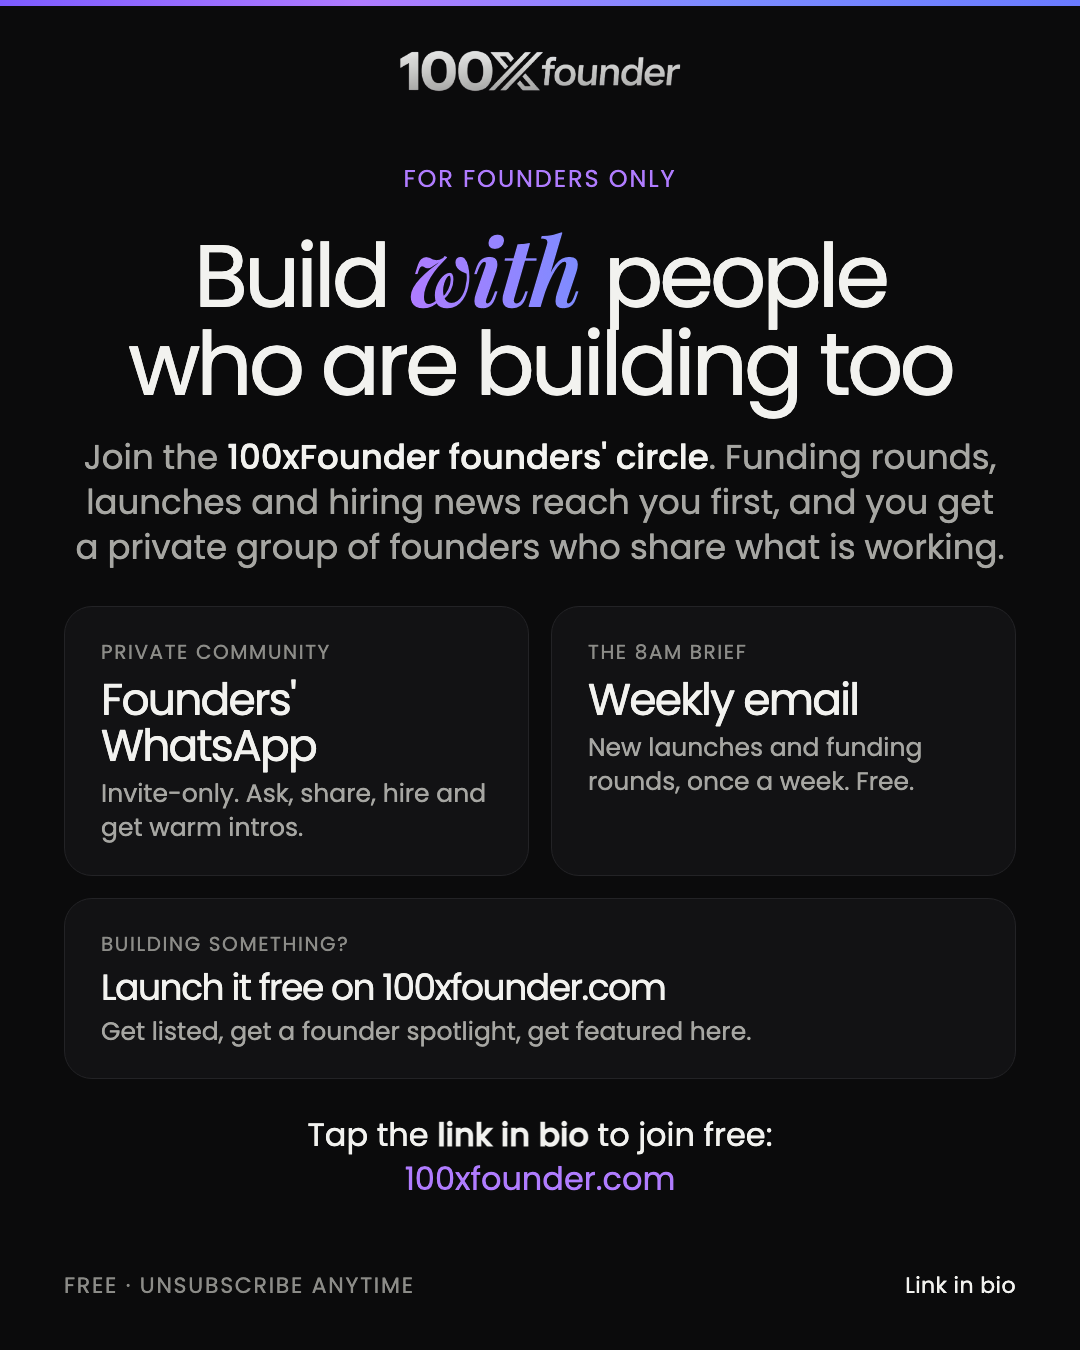
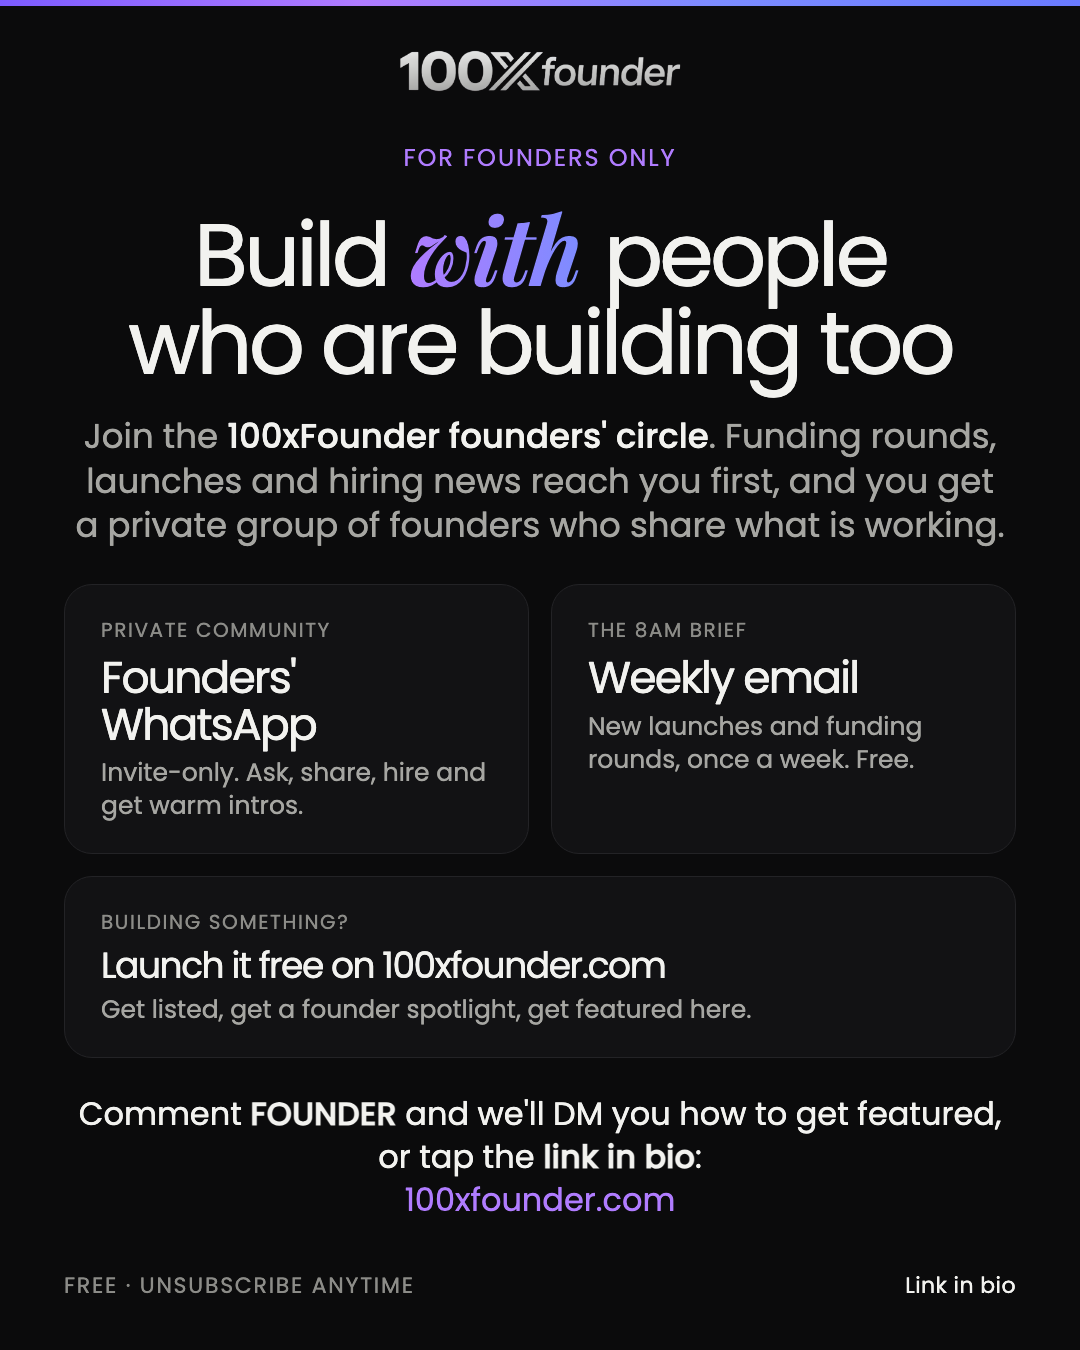
Instagram: comment-to-DM (keyword private replies) and 'Comment FOUNDER' end slide

diff --git a/wordpress/100xfounder/includes/instagram-dm.php b/wordpress/100xfounder/includes/instagram-dm.php
@@ -24,6 +24,8 @@ function xf_ig_dm_opts() {
     }
     return $o + [
         'enabled' => 0,
+        'comments_on' => 0,
+        'keywords' => "FOUNDER | Thanks for commenting! 🙌 Here's how to get your startup featured on 100xFounder: launch it free at https://100xfounder.com/launch/ and reply here with your startup's name. Join the founders' circle (private WhatsApp + weekly 8am brief): https://100xfounder.com/join/\nJOBS | Here are the latest startup and big-tech jobs in India, all from official careers pages: https://100xfounder.com/jobs/\nBRIEF | Get the 8am brief, new launches and funding rounds once a week, free: https://100xfounder.com/join/",
         'secret' => '',
         'text' => "Thanks for messaging 100xFounder! 👋\n\nWant your startup featured? Launch it free: https://100xfounder.com/launch/\nJoin the founders' circle (private WhatsApp + weekly 8am brief): https://100xfounder.com/join/\n\nA person from our team will read your message and reply here.",
     ];
@@ -54,6 +56,45 @@ function xf_ig_dm_to_reply(array $events, array $last, $self_id, $now) {
         $out[$from] = true;
     }
     return array_keys($out);
+}
+
+/** "KEYWORD | message" lines -> ['KEYWORD' => message]. Pure; self-checked. */
+function xf_ig_dm_keywords($text) {
+    $out = [];
+    foreach (preg_split('/\R/', (string) $text) as $line) {
+        $parts = array_map('trim', explode('|', $line, 2));
+        if (count($parts) === 2 && $parts[0] !== '' && $parts[1] !== '') {
+            $out[strtoupper(preg_replace('/[^A-Za-z0-9]/', '', $parts[0]))] = $parts[1];
+        }
+    }
+    return array_filter($out, function ($v, $k) { return $k !== ''; }, ARRAY_FILTER_USE_BOTH);
+}
+
+/**
+ * Comments that get a private reply: [comment_id => keyword] for comments whose text contains a keyword as a word,
+ * not written by us, and from someone who hasn't had that keyword's reply yet ($done: "user:KEYWORD" => time). Pure; self-checked.
+ */
+function xf_ig_dm_comment_replies(array $changes, array $keywords, array $done, $self_id) {
+    $out = [];
+    foreach ($changes as $c) {
+        if (($c['field'] ?? '') !== 'comments') {
+            continue;
+        }
+        $v = (array) ($c['value'] ?? []);
+        $cid = (string) ($v['id'] ?? '');
+        $from = (string) ($v['from']['id'] ?? '');
+        if ($cid === '' || $from === '' || $from === (string) $self_id) {
+            continue;
+        }
+        $words = preg_split('/[^A-Za-z0-9]+/', strtoupper((string) ($v['text'] ?? '')), -1, PREG_SPLIT_NO_EMPTY);
+        foreach (array_keys($keywords) as $k) {
+            if (in_array($k, $words, true) && !isset($done[$from . ':' . $k])) {
+                $out[$cid] = ['keyword' => $k, 'from' => $from];
+                break;
+            }
+        }
+    }
+    return $out;
 }
 
 add_action('rest_api_init', function () {
@@ -118,6 +159,29 @@ function xf_ig_dm_receive(WP_REST_Request $r) {
             unset($row);
         }
     }
+    // Comment-to-DM: someone commented a keyword on our post; Instagram's private-reply API lets us DM them once.
+    $changes = [];
+    foreach ((array) ($body['entry'] ?? []) as $entry) {
+        foreach ((array) ($entry['changes'] ?? []) as $ch) {
+            $changes[] = $ch;
+        }
+    }
+    if ($changes && !empty($o['comments_on']) && $self !== '' && function_exists('xf_ig_api')) {
+        $kw = xf_ig_dm_keywords($o['keywords']);
+        $done = (array) get_option('xf_ig_dm_kw_done', []);
+        foreach (xf_ig_dm_comment_replies($changes, $kw, $done, $self) as $cid => $hit) {
+            $res = xf_ig_api('POST', $self . '/messages', [
+                'recipient' => wp_json_encode(['comment_id' => (string) $cid]),
+                'message' => wp_json_encode(['text' => $kw[$hit['keyword']]]),
+            ]);
+            $ok = !is_wp_error($res);
+            if ($ok) {
+                $done[$hit['from'] . ':' . $hit['keyword']] = time();
+            }
+            $log[] = ['at' => time(), 'from' => $hit['from'], 'text' => 'Commented ' . $hit['keyword'], 'replied' => $ok ? 'private reply sent' : 'private reply failed: ' . $res->get_error_message()];
+        }
+        update_option('xf_ig_dm_kw_done', array_slice($done, -5000, null, true), false);
+    }
     update_option('xf_ig_dm_log', array_slice($log, -100), false);
     update_option('xf_ig_dm_last', $last, false);
     return ['ok' => true];
@@ -131,14 +195,16 @@ function xf_ig_dm_tab() {
     ?>
     <div class="card" style="max-width:none">
         <h2>Auto-reply to DMs</h2>
-        <p>When someone messages @<?php echo esc_html(xf_ig_token()['username'] ?? '100xfounder'); ?>, this sends one reply (at most once a week per person) with the launch and join links. Instagram only allows replies to people who wrote first, so nothing here sends cold DMs.</p>
+        <p>Instagram allows two automatic DMs: a reply to someone who messages us, and a private reply to someone who comments a keyword on our post. Both are below. When someone messages @<?php echo esc_html(xf_ig_token()['username'] ?? '100xfounder'); ?>, this sends one reply (at most once a week per person) with the launch and join links. Instagram only allows replies to people who wrote first, so nothing here sends cold DMs.</p>
         <form method="post" action="<?php echo esc_url(admin_url('admin-post.php')); ?>">
             <input type="hidden" name="action" value="xf_ig_dm_save"><?php wp_nonce_field('xf_ig_dm_save'); ?>
             <table class="form-table">
                 <tr><th scope="row">Auto-reply</th><td><label><input type="checkbox" name="enabled" value="1" <?php checked(!empty($o['enabled'])); ?>> Reply automatically</label></td></tr>
                 <tr><th scope="row"><label for="xf_dm_text">Reply text</label></th><td><textarea id="xf_dm_text" name="text" rows="7" class="large-text" maxlength="1000"><?php echo esc_textarea($o['text']); ?></textarea></td></tr>
+                <tr><th scope="row">Comment-to-DM</th><td><label><input type="checkbox" name="comments_on" value="1" <?php checked(!empty($o['comments_on'])); ?>> When someone comments a keyword on our posts, DM them the matching message (once per person per keyword)</label></td></tr>
+                <tr><th scope="row"><label for="xf_dm_kw">Keywords</label></th><td><textarea id="xf_dm_kw" name="keywords" rows="6" class="large-text code"><?php echo esc_textarea($o['keywords']); ?></textarea><p class="description">One per line: <code>KEYWORD | message</code>. Put "Comment FOUNDER to get featured" in your captions and end slide.</p></td></tr>
                 <tr><th scope="row"><label for="xf_dm_secret">Meta app secret</label></th><td><input id="xf_dm_secret" type="password" name="secret" class="regular-text" autocomplete="off" placeholder="<?php echo $o['secret'] ? esc_attr__('Saved. Paste a new one to replace it.') : ''; ?>"><p class="description">Meta app → App settings → Basic → App secret. Used only to check that webhook calls come from Meta.</p></td></tr>
-                <tr><th scope="row">Webhook</th><td><code><?php echo esc_html(rest_url('xf/v1/ig-webhook')); ?></code><br>Verify token: <code><?php echo esc_html($o['verify']); ?></code><p class="description">Meta app → Instagram → Webhooks: paste both, then subscribe to <em>messages</em>. The access token needs the <em>instagram_business_manage_messages</em> permission.</p></td></tr>
+                <tr><th scope="row">Webhook</th><td><code><?php echo esc_html(rest_url('xf/v1/ig-webhook')); ?></code><br>Verify token: <code><?php echo esc_html($o['verify']); ?></code><p class="description">Meta app → Instagram → Webhooks: paste both, then subscribe to <em>messages</em> and <em>comments</em>. The access token needs the <em>instagram_business_manage_messages</em> permission.</p></td></tr>
             </table>
             <?php submit_button('Save DM settings'); ?>
         </form>
@@ -162,6 +228,11 @@ add_action('admin_post_xf_ig_dm_save', function () {
     }
     $o = xf_ig_dm_opts();
     $o['enabled'] = empty($_POST['enabled']) ? 0 : 1;
+    $o['comments_on'] = empty($_POST['comments_on']) ? 0 : 1;
+    $kw = sanitize_textarea_field(wp_unslash($_POST['keywords'] ?? ''));
+    if ($kw !== '') {
+        $o['keywords'] = $kw;
+    }
     $text = sanitize_textarea_field(wp_unslash($_POST['text'] ?? ''));
     if ($text !== '') {
         $o['text'] = $text;
@@ -192,5 +263,16 @@ function xf_ig_dm_selfcheck() {
     assert(xf_ig_dm_to_reply($ev, [], 'ME', $now) === ['A', 'C'], 'one reply per sender; no echoes or reads');
     assert(xf_ig_dm_to_reply($ev, ['A' => $now - 3600], 'ME', $now) === ['C'], 'no second reply within a week');
     assert(xf_ig_dm_to_reply($ev, ['A' => $now - 8 * DAY_IN_SECONDS], 'ME', $now) === ['A', 'C'], 'replies again after a week');
+    $kw = xf_ig_dm_keywords("founder | Hi founder\nJOBS| jobs link\nbad line\n | empty");
+    assert($kw === ['FOUNDER' => 'Hi founder', 'JOBS' => 'jobs link'], 'parses keyword lines');
+    $ch = [
+        ['field' => 'comments', 'value' => ['id' => 'c1', 'text' => 'Founder here!', 'from' => ['id' => 'U1']]],
+        ['field' => 'comments', 'value' => ['id' => 'c2', 'text' => 'cofounder', 'from' => ['id' => 'U2']]],
+        ['field' => 'comments', 'value' => ['id' => 'c3', 'text' => 'FOUNDER', 'from' => ['id' => 'ME']]],
+        ['field' => 'mentions', 'value' => ['id' => 'c4', 'text' => 'founder', 'from' => ['id' => 'U4']]],
+        ['field' => 'comments', 'value' => ['id' => 'c5', 'text' => 'jobs pls', 'from' => ['id' => 'U1']]],
+    ];
+    assert(array_keys(xf_ig_dm_comment_replies($ch, $kw, [], 'ME')) === ['c1', 'c5'], 'whole-word keyword, not our own, comments only');
+    assert(array_keys(xf_ig_dm_comment_replies($ch, $kw, ['U1:FOUNDER' => 1], 'ME')) === ['c5'], 'once per person per keyword');
     return true;
 }
